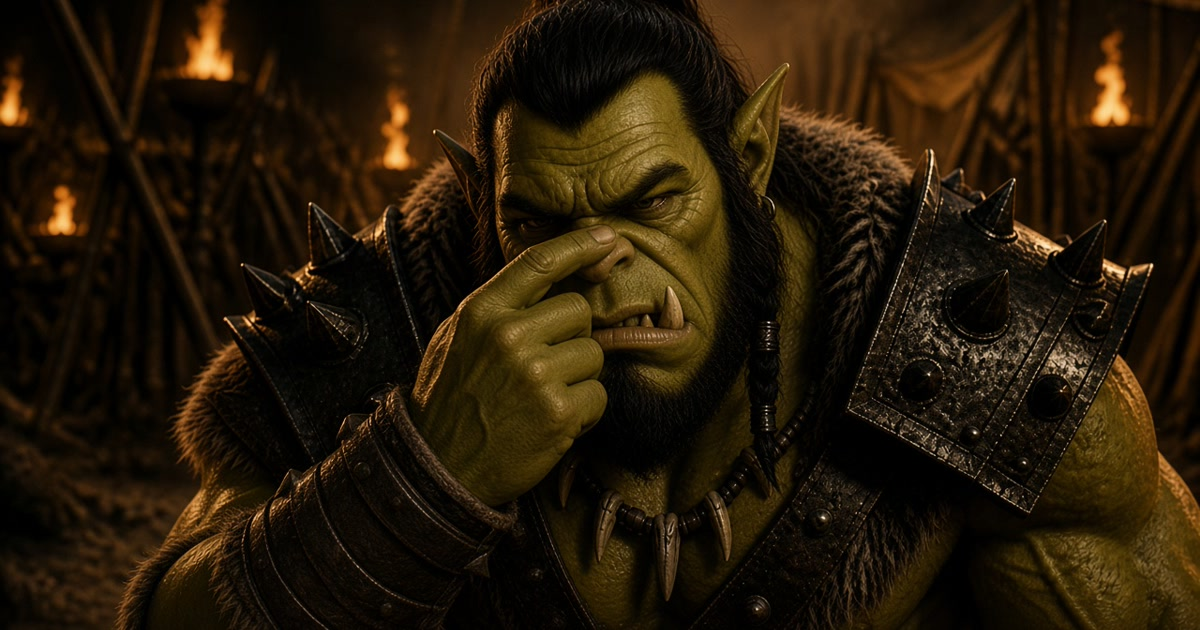
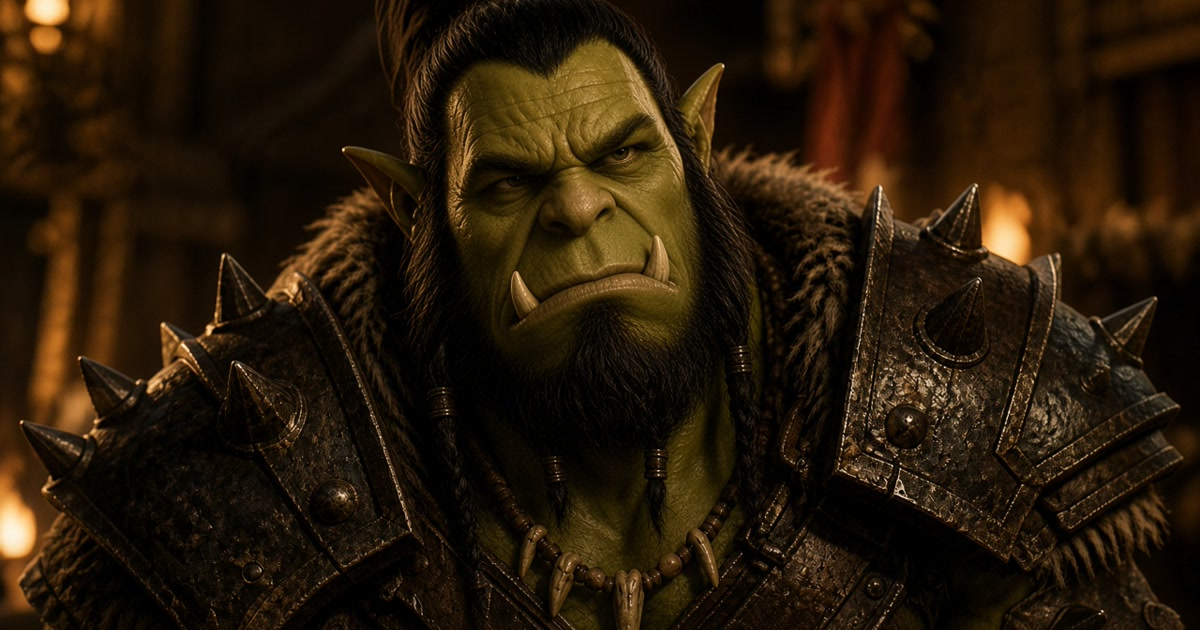
Reshoot Annoyed as a watchful glare.
He narrows his eyes and stays annoyed without touching his face.

diff --git a/scripts/imagine-video.ts b/scripts/imagine-video.ts
@@ -36,7 +36,7 @@ const PROMPTS: Record<string, string> = {
   angry:
     "The orc shouts in anger, a short roar, shoulders heaving, glare holding on the camera. Locked camera.",
   annoyed:
-    "The orc pinches the bridge of his nose, rolls his eyes, and gives a small exasperated head shake. Then he lowers his hand and holds a tight annoyed look. He does not shout. Mouth stays closed, no talking. Locked camera.",
+    "The orc watches, eyes narrowing, a small exasperated blink and a tiny head tilt. He stays annoyed. His hands never rise. He does not touch his face or nose. He does not shout. Mouth stays closed, no talking. Locked camera.",
   beach:
     "The orc lifts the skull cocktail and takes a sip, a relaxed beach grin, ocean behind him. Locked camera.",
   "burn-it-with-fire":
